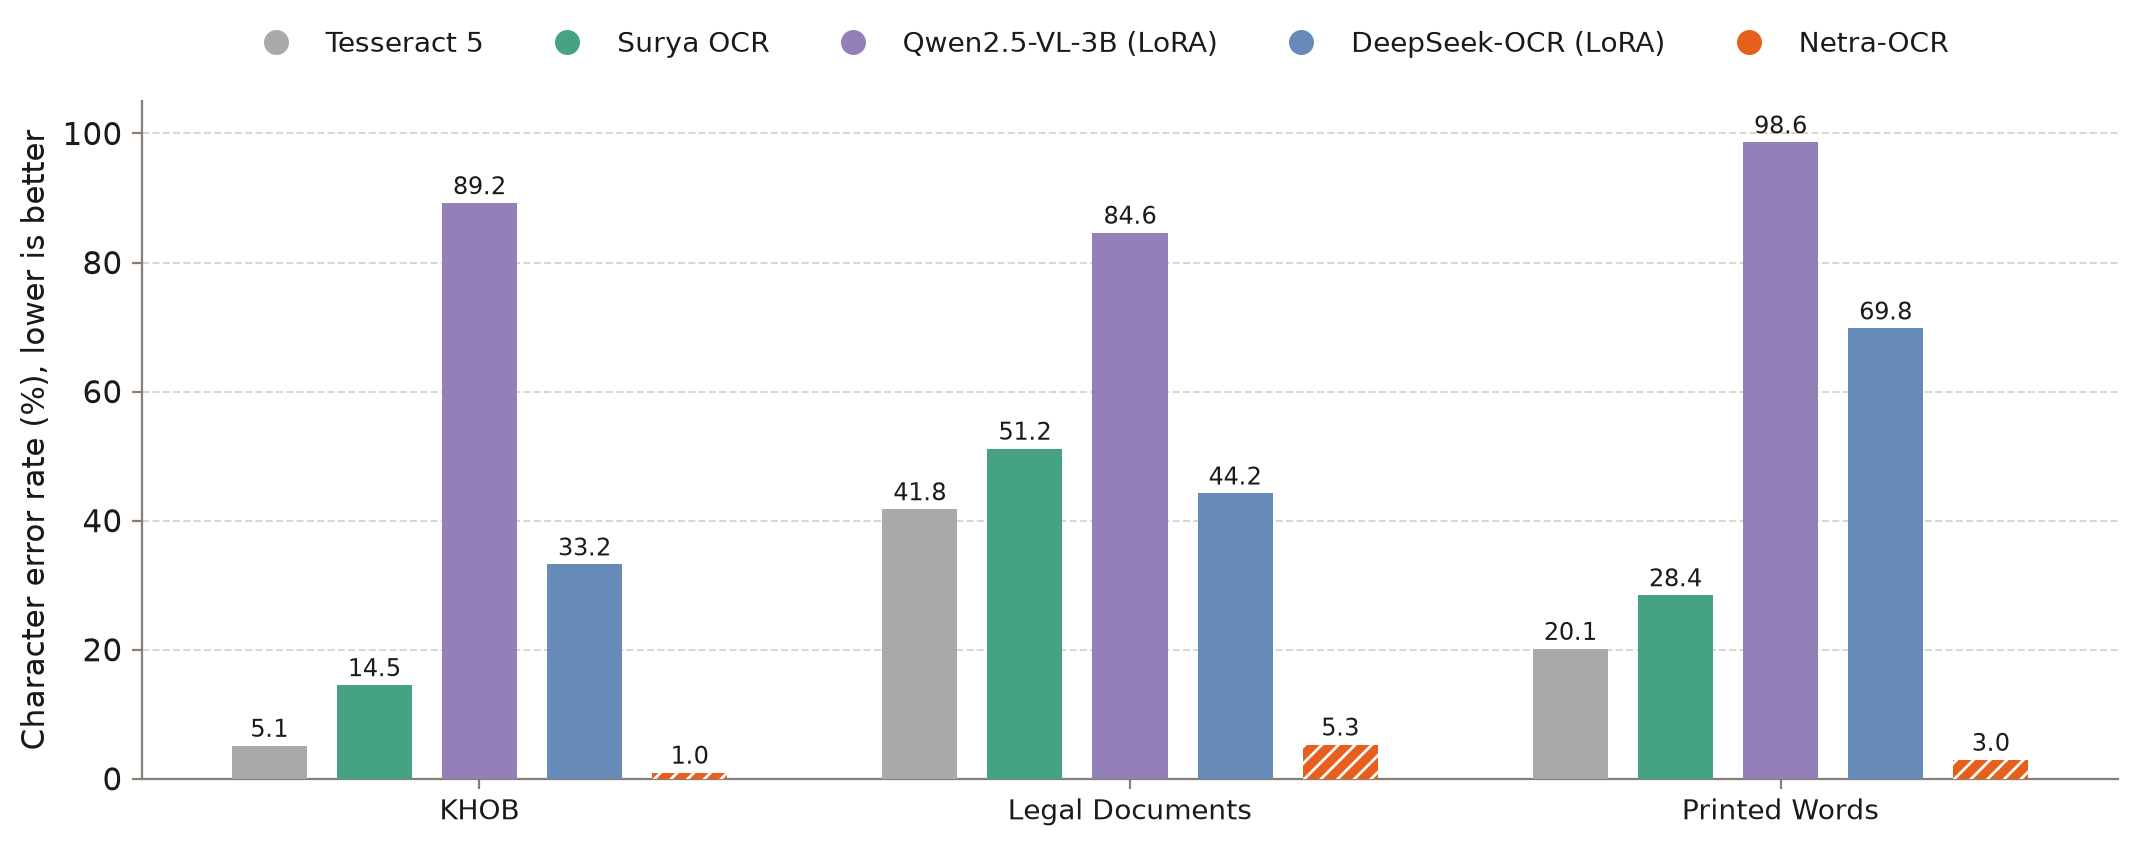
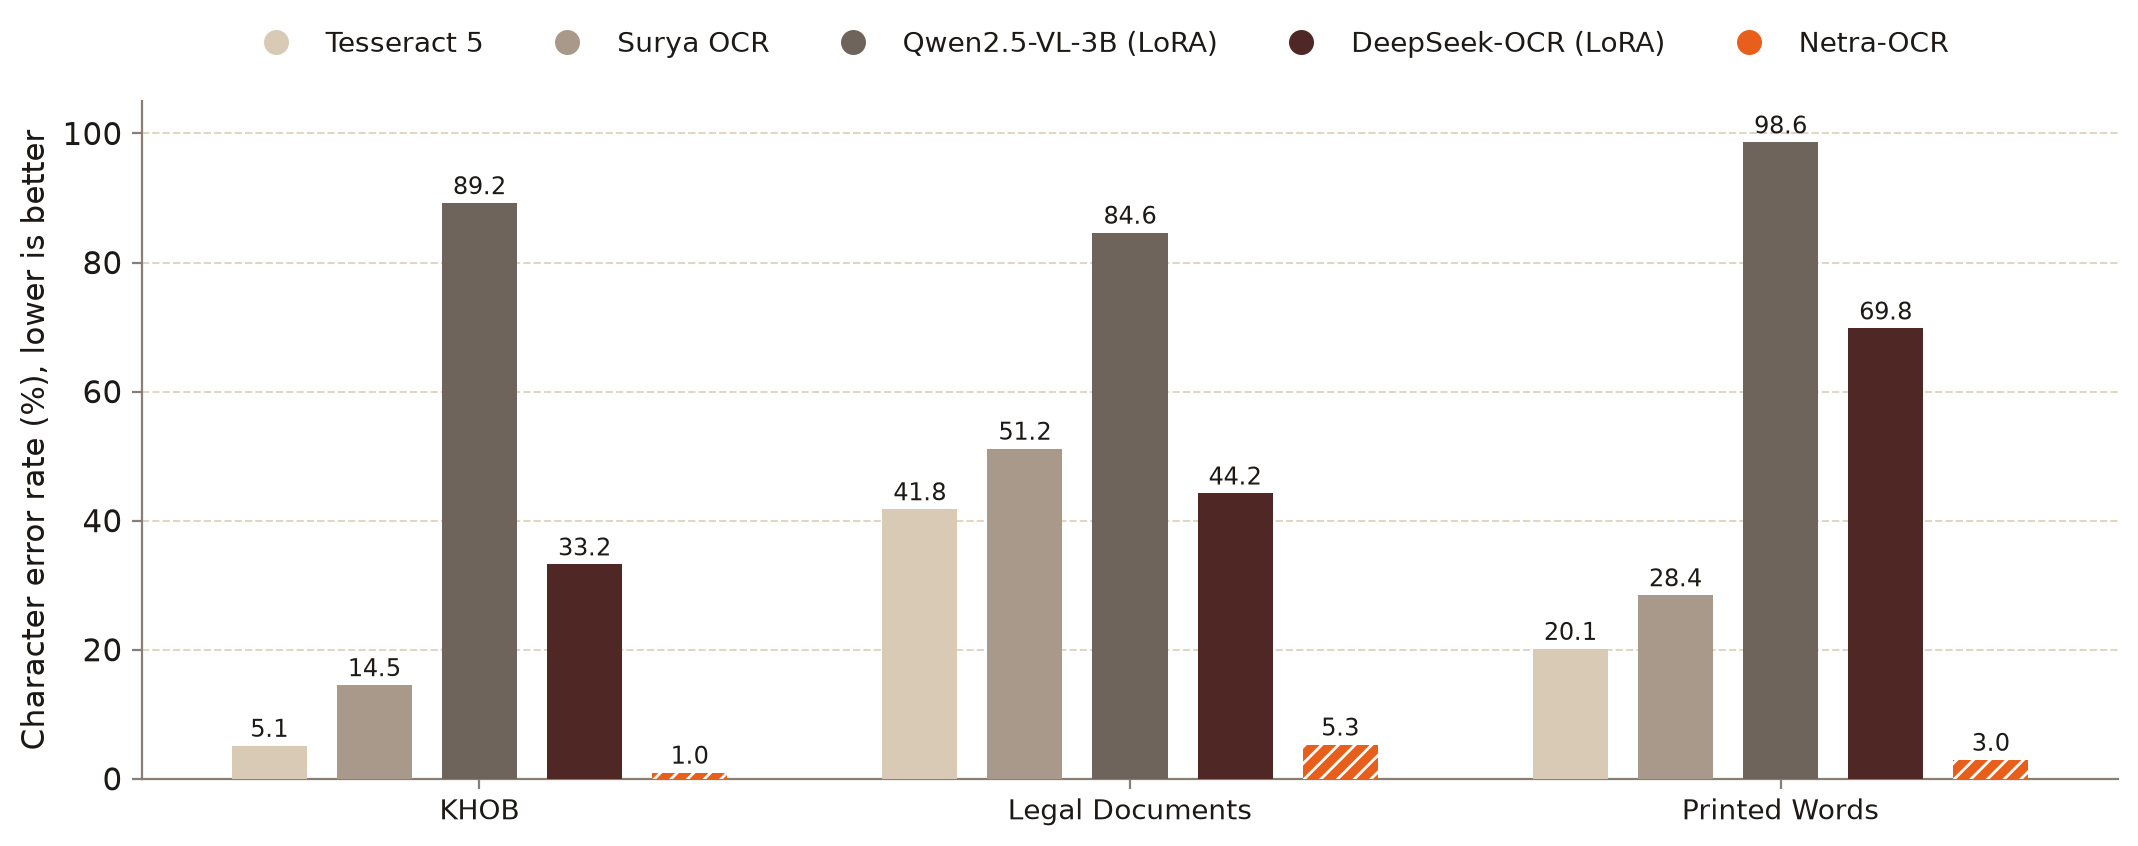
update

diff --git a/assets/make_figures.py b/assets/make_figures.py
@@ -1,11 +1,11 @@
 """README figures in the Netra style (from the Netra README Kit's templates/figures/make_figures.py).
 
-    python assets/make_figures.py          # writes results.png and decoding_speed.png next to this file
+    python assets/make_figures.py          # writes results.png and blockwise_decoding.png next to this file
 
-  results.png         CER of each OCR engine on the three test sets (OCR_COMPARISON_RESULTS.md)
-  decoding_speed.png  recognition time per line, greedy vs blockwise decoding (netra_ocr/recognition/EVAL_RESULTS.md)
+  results.png             CER of each OCR engine on the three test sets (OCR_COMPARISON_RESULTS.md)
+  blockwise_decoding.png  one step of blockwise parallel decoding, as implemented in recognition/predictor.py
 
-The numbers are copied from those two files (both git-ignored); docs/RESULTS.md publishes them. Update all three together.
+The numbers are copied from OCR_COMPARISON_RESULTS.md (git-ignored); docs/RESULTS.md publishes them. Update both together.
 """
 
 import sys
@@ -24,7 +24,7 @@ for brand in (HERE / "brand", HERE.parents[1] / "assets" / "brand"):
     if (brand / "brand_colors.py").exists():
         sys.path.insert(0, str(brand))
         break
-from brand_colors import BASELINES, CHART, COLOR, OURS, apply, legend_dot, ours_bar  # noqa: E402
+from brand_colors import BASELINES, CHART, COLOR, NEUTRALS, OURS, apply, legend_dot, ours_bar  # noqa: E402
 
 INK = COLOR["foreground"]
 
@@ -167,24 +167,115 @@ def block_diagram(kinds, before, after, out, before_title, after_title, arrow_la
     plt.close(fig)
 
 
+def blockwise_steps(prefix, proposals, greedy, out, block_size=4):
+    """One step of blockwise parallel decoding (Stern et al. 2018), as three rows: predict, verify, accept.
+
+    prefix:    tokens decoded so far
+    proposals: the block_size tokens proposed in one pass (p1 is the base decoder itself, so it always matches)
+    greedy:    the base decoder's own greedy choice at each proposed position, from one verification pass
+    """
+    n_ok = next((i for i, (p, g) in enumerate(zip(proposals, greedy)) if p != g), block_size)
+    w, h, gx = 1.0, 1.0, 0.18
+    rows = {"predict": 6.2, "verify": 3.55, "accept": 0.9}
+    x0 = 5.4
+    xs = [x0 + i * (w + gx) for i in range(len(prefix) + block_size)]
+    fig, ax = plt.subplots(figsize=(12, 4.6))
+    ax.set_aspect("equal")
+    ax.axis("off")
+
+    def box(i, y, tok, fc, ec, ls="-", tc=INK, strike=False, weight="normal"):
+        ax.add_patch(FancyBboxPatch((xs[i], y), w, h, boxstyle="round,pad=0,rounding_size=0.12",
+                                    fc=fc, ec=ec, lw=1.1, ls=ls))
+        ax.text(xs[i] + w / 2, y + h / 2, "␣" if tok == " " else tok, ha="center", va="center", fontsize=13,
+                color=tc, weight=weight)
+        if strike:
+            ax.plot([xs[i] + 0.15, xs[i] + w - 0.15], [y + 0.15, y + h - 0.15], color=COLOR["muted-2"], lw=1.2)
+
+    def prefix_row(y):
+        for i, tok in enumerate(prefix):
+            box(i, y, tok, COLOR["card"], COLOR["border"])
+
+    def label(y, num, title, note):
+        ax.text(0.2, y + h / 2 + 0.22, f"{num}  {title}", ha="left", va="center", fontsize=12.5, color=INK,
+                weight="bold")
+        ax.text(0.2, y + h / 2 - 0.42, note, ha="left", va="center", fontsize=9, color=COLOR["muted"])
+
+    k = len(prefix)
+    right = xs[-1] + w + 0.6
+    # 1. predict: the proposal head guesses block_size tokens at once
+    y = rows["predict"]
+    label(y, 1, "Predict", "one decoder pass")
+    prefix_row(y)
+    for j, tok in enumerate(proposals):
+        box(k + j, y, tok, COLOR["tint-orange"], OURS, ls=(0, (3, 2)))
+        ax.text(xs[k + j] + w / 2, y + h + 0.12, f"p{j + 1}", ha="center", va="bottom", fontsize=9,
+                color=COLOR["muted"])
+    ax.text(right, y + h / 2, f"{block_size} tokens proposed", va="center", fontsize=10, color=INK)
+    # 2. verify: the base decoder reads prefix + proposals once and gives its greedy token at every position
+    y = rows["verify"]
+    label(y, 2, "Verify", "one decoder pass, in parallel")
+    prefix_row(y)
+    for j, tok in enumerate(greedy):
+        ok = j < n_ok
+        checked = j <= n_ok
+        box(k + j, y, tok, "white" if checked else COLOR["background"], INK if checked else COLOR["border"],
+            tc=INK if checked else COLOR["muted-2"])
+        if checked:
+            ax.text(xs[k + j] + w / 2, y + h + 0.12, "✓" if ok else "✗", ha="center", va="bottom", fontsize=12,
+                    color=OURS if ok else COLOR["accent-maroon"], weight="bold")
+    ax.text(right, y + h / 2, f"greedy choice matches p1–p{n_ok}", va="center", fontsize=10, color=INK)
+    # 3. accept: the matching prefix, plus the base decoder's own token where they first disagree
+    y = rows["accept"]
+    label(y, 3, "Accept", "longest matching prefix")
+    prefix_row(y)
+    for j in range(block_size):
+        if j < n_ok:
+            box(k + j, y, proposals[j], OURS, OURS, tc="white", weight="bold")
+        elif j == n_ok:
+            box(k + j, y, greedy[j], COLOR["accent-maroon"], COLOR["accent-maroon"], tc="white", weight="bold")
+        else:
+            box(k + j, y, proposals[j], COLOR["background"], COLOR["muted-2"], ls=(0, (3, 2)),
+                tc=COLOR["muted-2"], strike=True)
+    ax.text(right, y + h / 2, f"+{n_ok + 1} tokens from 2 passes\n(greedy needs {n_ok + 1} passes)",
+            va="center", fontsize=10, color=INK, linespacing=1.3)
+    # arrows between rows, from the proposals down
+    mid = (xs[k] + xs[k + block_size - 1] + w) / 2
+    for a, b in (("predict", "verify"), ("verify", "accept")):
+        ax.add_patch(FancyArrowPatch((mid, rows[a] - 0.08), (mid, rows[b] + h + 0.62), arrowstyle="-|>",
+                                     mutation_scale=12, color=COLOR["muted-2"], lw=1.0))
+    # legend
+    ly, lx = -0.75, x0
+    for fc, ec, ls, text in ((COLOR["card"], COLOR["border"], "-", "decoded so far"),
+                             (OURS, OURS, "-", "accepted proposal"),
+                             (COLOR["accent-maroon"], COLOR["accent-maroon"], "-", "base decoder's own token"),
+                             (COLOR["background"], COLOR["muted-2"], (0, (3, 2)), "discarded")):
+        ax.add_patch(FancyBboxPatch((lx, ly), 0.42, 0.42, boxstyle="round,pad=0,rounding_size=0.06",
+                                    fc=fc, ec=ec, lw=1.0, ls=ls))
+        ax.text(lx + 0.6, ly + 0.21, text, va="center", fontsize=9.5, color=INK)
+        lx += 0.6 + 0.16 * len(text) + 0.8
+    ax.set_xlim(0, max(right + 4.2, lx))
+    ax.set_ylim(ly - 0.3, rows["predict"] + h + 0.7)
+    fig.savefig(out, bbox_inches="tight", pad_inches=0.15)
+    plt.close(fig)
+
+
 def main(out_dir: Path) -> None:
     apply()
     plt.rcParams["hatch.color"] = CHART["figureBackground"]
     # OCR_COMPARISON_RESULTS.md, CER x 100. Ours: AR beam=3. The two VLMs are our LoRA fine-tunes (Qwen-ours-FT,
     # DeepSeek-ours-FT). Printed Word is the first 500 of 5,000 lines for every engine.
     labels = ["KHOB", "Legal Documents", "Printed Words"]
-    results_bars([("", [("Tesseract 5", [5.12, 41.78, 20.14], BASELINES[3]),
-                        ("Surya OCR", [14.52, 51.16, 28.45], BASELINES[1]),
-                        ("Qwen2.5-VL-3B (LoRA)", [89.21, 84.63, 98.62], BASELINES[2]),
-                        ("DeepSeek-OCR (LoRA)", [33.23, 44.22, 69.79], BASELINES[0]),
+    results_bars([("", [("Tesseract 5", [5.12, 41.78, 20.14], NEUTRALS[0]),
+                        ("Surya OCR", [14.52, 51.16, 28.45], NEUTRALS[1]),
+                        ("Qwen2.5-VL-3B (LoRA)", [89.21, 84.63, 98.62], NEUTRALS[2]),
+                        ("DeepSeek-OCR (LoRA)", [33.23, 44.22, 69.79], NEUTRALS[3]),
                         ("Netra-OCR", [0.96, 5.31, 2.95], None)])],
                  labels, out_dir / "results.png", ylabel="Character error rate (%), lower is better",
                  ylim=(0, 105), legend_top=True)
-    # netra_ocr/recognition/EVAL_RESULTS.md: KHOB, 325 lines, same output from both decoders
-    before_after_bars([("KHOB (325 lines)", 17.60, 11.35)], out_dir / "decoding_speed.png",
-                      "Recognition time per text line (ms)", "greedy autoregressive",
-                      "blockwise parallel (same output)", fmt="{:.2f}", ratio="{:.2f}× faster")
-    print("wrote results.png, decoding_speed.png in", out_dir)
+    # an English line, so the tokens are single characters: "Phn" decoded, the head proposes "omen",
+    # the base decoder's greedy choice is "om P" -> accept "om" plus its own " "
+    blockwise_steps(list("Phn"), list("omen"), list("om P"), out_dir / "blockwise_decoding.png")
+    print("wrote results.png, blockwise_decoding.png in", out_dir)
 
 
 if __name__ == "__main__":

diff --git a/assets/brand/brand_colors.py b/assets/brand/brand_colors.py
@@ -17,6 +17,7 @@ COLOR = {name: spec["hex"] for name, spec in _TOKENS["color"].items() if "hex" i
 CHART = _TOKENS["chart"]
 OURS = CHART["ours"]
 BASELINES = CHART["baselines"]
+NEUTRALS = CHART["neutrals"]
 
 
 def apply(font_dir=None):

diff --git a/readme.md b/readme.md
@@ -100,11 +100,22 @@ Netra-OCR was trained entirely on synthetic data: **1.3M** text-line images, of 
 
 **Across chunks.** The tokens of all chunks are concatenated with a second, line-level positional embedding. A **bidirectional LSTM** then carries context across each seam, so a character split between two chunks reads the same from both sides. [docs/ARCHITECTURE.md](https://github.com/netra-ai-lab/Netra-OCR/blob/master/docs/ARCHITECTURE.md) explains each module.
 
+**Blockwise parallel decoding.** The optional `blockwise` decoder ([Stern et al., 2018](https://arxiv.org/abs/1811.03115)) adds a small proposal head to the frozen decoder, so one step can write several tokens instead of one.
+
 <p align="center">
-  <img src="https://raw.githubusercontent.com/netra-ai-lab/Netra-OCR/master/assets/decoding_speed.png" width="560" alt="Recognition time per text line on KHOB: 17.60 ms with greedy decoding, 11.35 ms with blockwise parallel decoding" />
+  <img src="https://raw.githubusercontent.com/netra-ai-lab/Netra-OCR/master/assets/blockwise_decoding.png" width="900" alt="One step of blockwise parallel decoding: the head proposes 4 tokens, the decoder checks them in one pass, and the matching prefix plus the decoder's own next token are kept" />
 </p>
 
-<p><em>Figure 3: Recognition time per text line on KHOB (325 lines), greedy against blockwise parallel decoding. The blockwise decoder proposes up to 4 tokens per step and verifies them against the same decoder, accepting 2.7 on average. Its output is identical, character for character ([docs/RESULTS.md](https://github.com/netra-ai-lab/Netra-OCR/blob/master/docs/RESULTS.md)).</em></p>
+<p><em>Figure 3: One step of blockwise parallel decoding. (1) The proposal head guesses the next 4 tokens at once. (2) The decoder reads them in one parallel pass and gives its own greedy choice at each position. (3) Proposals are kept up to the first disagreement, and the decoder's own token at that point is added. Every kept token is one greedy decoding would also write, so the output is identical.</em></p>
+
+Speed on KHOB (325 lines), same model, greedy decoding:
+
+| Decoder | CER | Exact match | ms per line | Lines per second | Tokens per step | Speed-up |
+| :--- | ---: | ---: | ---: | ---: | ---: | ---: |
+| Autoregressive | 1.17 | 84.9 | 17.60 | 56.8 | 1 | 1.00× |
+| **Blockwise, 4 proposed** | **1.17** | **84.9** | **11.35** | **88.1** | **2.7** | **1.55×** |
+
+The decoder runs about 2.7× fewer passes; the end-to-end gain is smaller because the encoder costs the same ([docs/RESULTS.md](https://github.com/netra-ai-lab/Netra-OCR/blob/master/docs/RESULTS.md)).
 
 | Feature | Detail |
 | :--- | :--- |

diff --git a/docs/MODEL_CARD.md b/docs/MODEL_CARD.md
@@ -69,16 +69,20 @@ Character error rate in %, on single text-line crops. Lower is better.
 
 ### Decoders
 
-The two released checkpoints share one model and differ only in decoding. On KHOB (325 lines, greedy decoding):
+The two released checkpoints share one model and differ only in decoding. The `blockwise` checkpoint adds a small proposal head ([Stern et al. 2018](https://arxiv.org/abs/1811.03115)) to the frozen model:
 
-| Decoder | CER | WER | Exact match | ms per line |
-|---|---|---|---|---|
-| `ar` (greedy) | 1.17% | 17.11% | 84.92% | 17.60 |
-| `blockwise` | 1.17% | 17.11% | 84.92% | 11.35 |
+<p align="center"><img src="https://huggingface.co/Darayut/khmer-text-recognition/resolve/main/assets/blockwise_decoding.png" width="90%" alt="One step of blockwise parallel decoding: propose 4 tokens, verify them in one pass, keep the matching prefix plus the decoder's own next token"></p>
 
-<p align="center"><img src="https://huggingface.co/Darayut/khmer-text-recognition/resolve/main/assets/decoding_speed.png" width="60%" alt="Recognition time per text line on KHOB: 17.60 ms greedy, 11.35 ms blockwise"></p>
+*One decoding step.* The head proposes 4 tokens, the model checks them in one parallel pass, and the proposals are kept up to the first disagreement, plus the model's own token there. Every kept token is one greedy decoding would write, so the output is identical.
 
-*Recognition time per line.* The blockwise decoder accepts 2.7 of up to 4 proposed tokens per step on average, and is 1.55× faster with identical output. Beam search (`beam_width=3`) lowers KHOB CER to 0.96% at a higher cost per line.
+On KHOB (325 lines, greedy decoding):
+
+| Decoder | CER | WER | Exact match | ms per line | Tokens per step | Speed-up |
+|---|---|---|---|---|---|---|
+| `ar` (greedy) | 1.17% | 17.11% | 84.92% | 17.60 | 1 | 1.00× |
+| `blockwise` | 1.17% | 17.11% | 84.92% | 11.35 | 2.7 | 1.55× |
+
+Beam search (`beam_width=3`) lowers KHOB CER to 0.96% at a higher cost per line.
 
 ## Architecture
 
